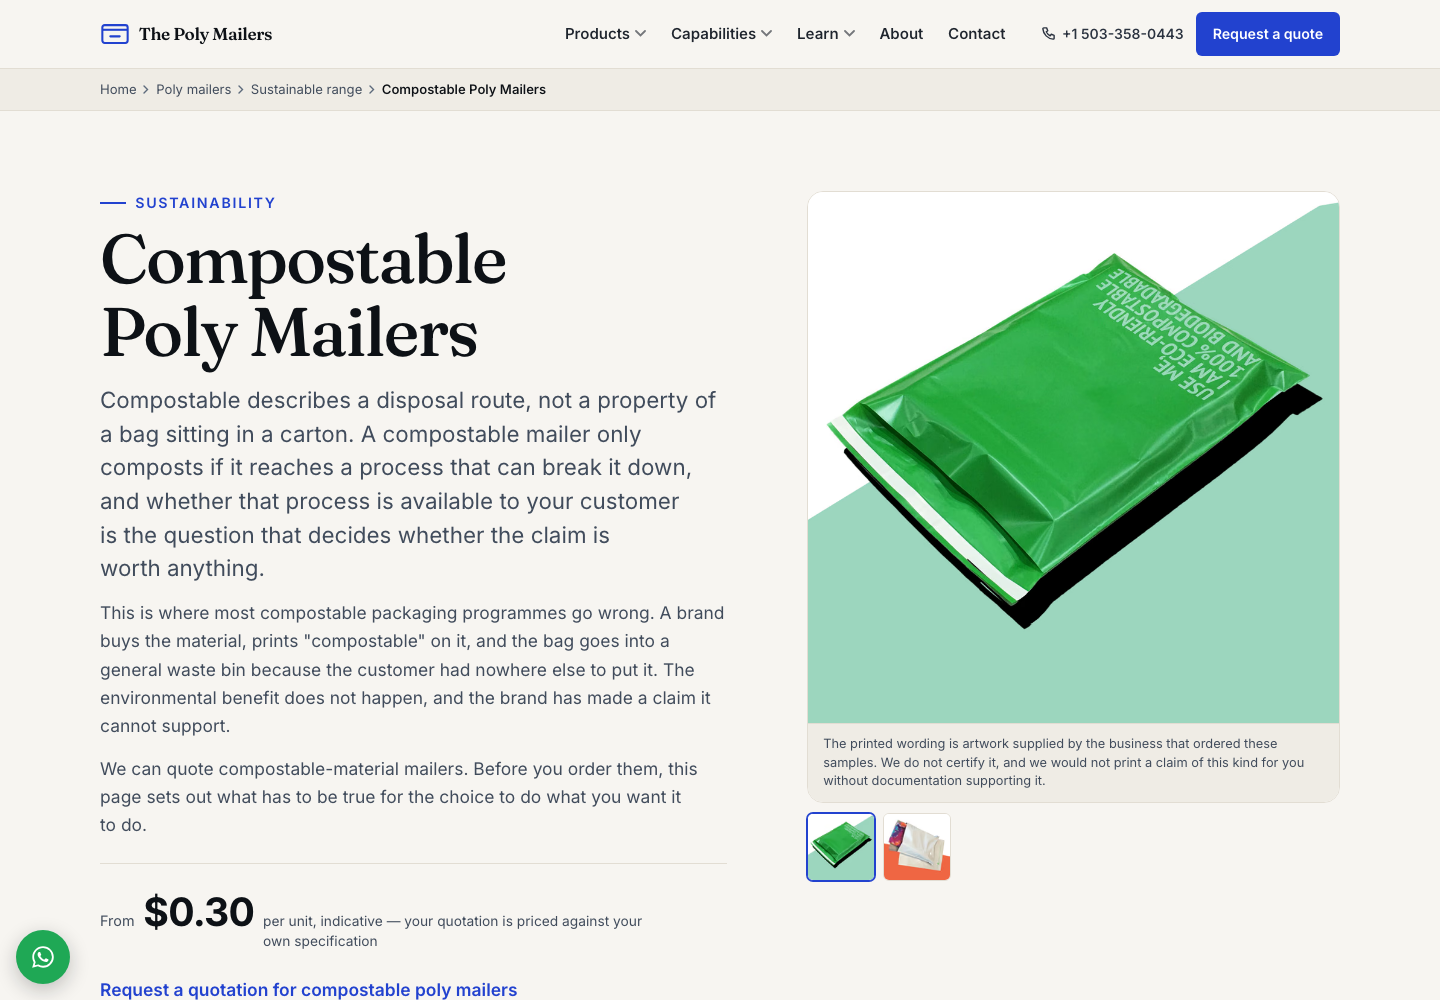
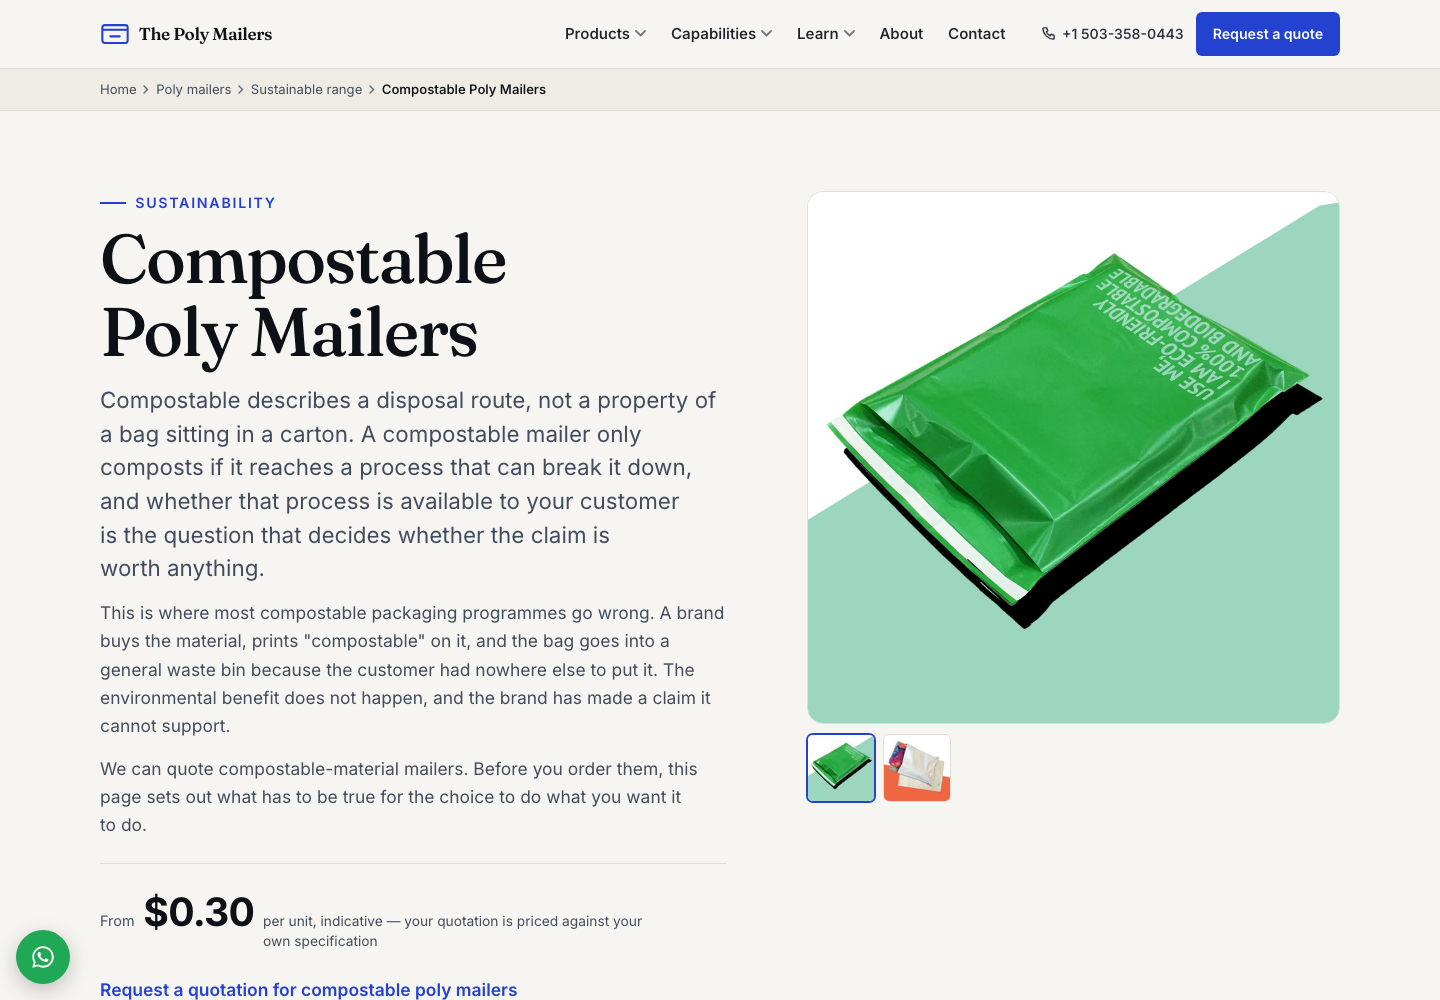
Remove the remaining image disclaimer captions
Client confirmed the printed claims on the supplied photographs are
acceptable, so the four captions that qualified them come off: the recycled
and compostable galleries, and two more found by checking the built HTML
rather than trusting the grep that missed them the first time.

No disclaimer caption remains on any gallery. The informative captions stay
— those describe the product rather than defend it.

Alt text still describes the printed wording as artwork rather than as a
property of the film, so the markup does not assert the claim either.

docs/15-open-items.md records the instruction, the date, and what it leaves
open, rather than quietly dropping the item.

Content audit 0/0 across 150 pages, browser QA 17/17, astro check clean.

Claude-Session: https://claude.ai/code/session_0196zgTZGuoq57sd4CQmziMU

Changed region(s): [[0.5625, 0.713, 0.9062, 0.899]]

diff --git a/site/src/data/products/sustainable.ts b/site/src/data/products/sustainable.ts
@@ -50,14 +50,10 @@ export const sustainableProducts: ProductPage[] = [
       {
         file: 'grey-mailer-printed-with-recycled-content-artwork.jpg',
         alt: 'Grey mailer packed and sealed, printed along one edge with a recycled-content message',
-        caption:
-          'The recycled-content wording shown is printed artwork supplied by the business that ordered these samples. It is not a claim by The Poly Mailers about the film, and we confirm composition on your own quotation.',
       },
       {
         file: 'white-mailer-printed-with-recycled-materials-artwork.jpg',
         alt: 'White mailer with a printed vertical line of text down the right-hand edge',
-        caption:
-          'Another customer’s printed messaging. Wording of this kind is your responsibility to substantiate in the market you sell into.',
       },
       {
         file: 'white-mailer-holding-folded-tie-dye-garment.jpg',
@@ -275,8 +271,6 @@ export const sustainableProducts: ProductPage[] = [
       {
         file: 'green-mailer-printed-with-eco-message-artwork.png',
         alt: 'Green mailer printed with a customer’s environmental message across the front panel',
-        caption:
-          'The printed wording is artwork supplied by the business that ordered these samples. We do not certify it, and we would not print a claim of this kind for you without documentation supporting it.',
       },
       {
         file: 'white-mailer-holding-folded-tie-dye-garment.jpg',
@@ -506,8 +500,6 @@ export const sustainableProducts: ProductPage[] = [
       {
         file: 'green-mailer-printed-with-eco-message-artwork.png',
         alt: 'Green mailer photographed at an angle, carrying a printed environmental slogan from a customer’s own design',
-        caption:
-          'An example of the kind of unqualified wording this page argues against. It is the customer’s artwork on a supplier sample, not a claim we make or endorse.',
       },
       {
         file: 'plain-white-poly-mailer-standing-filled.jpg',

diff --git a/site/docs/02-page-inventory.md b/site/docs/02-page-inventory.md
@@ -5,7 +5,7 @@ Generated from the built output at `dist/client`, not from the source data.
 **148 indexable pages**, plus `/thank-you/` and `/404` which are
 noindex and excluded from the XML sitemap.
 
-Total body copy across indexable pages: **162,712 words**
+Total body copy across indexable pages: **162,596 words**
 (median 1027 words per page, shortest 455,
 longest 2303).
 
@@ -42,7 +42,7 @@ longest 2303).
 | `/artwork-guidelines/` | 1246 | BreadcrumbList, FAQPage, WebPage |
 | `/australia/` | 884 | BreadcrumbList, CollectionPage, FAQPage, ItemList |
 | `/bee-poly-mailers/` | 1243 | BreadcrumbList, FAQPage, ImageObject, Product, WebPage |
-| `/biodegradable-poly-mailers/` | 1514 | BreadcrumbList, FAQPage, ImageObject, Product, WebPage |
+| `/biodegradable-poly-mailers/` | 1486 | BreadcrumbList, FAQPage, ImageObject, Product, WebPage |
 | `/black-poly-mailers/` | 1305 | BreadcrumbList, FAQPage, ImageObject, Product, WebPage |
 | `/blank-poly-mailers/` | 1320 | BreadcrumbList, FAQPage, ImageObject, Product, WebPage |
 | `/blog/` | 455 | BreadcrumbList, CollectionPage, ItemList |
@@ -59,7 +59,7 @@ longest 2303).
 | `/canada/` | 897 | BreadcrumbList, CollectionPage, FAQPage, ItemList |
 | `/christmas-poly-mailers/` | 1475 | BreadcrumbList, FAQPage, ImageObject, Product, WebPage |
 | `/colored-poly-mailers/` | 1367 | BreadcrumbList, FAQPage, ImageObject, Product, WebPage |
-| `/compostable-poly-mailers/` | 1580 | BreadcrumbList, FAQPage, ImageObject, Product, WebPage |
+| `/compostable-poly-mailers/` | 1546 | BreadcrumbList, FAQPage, ImageObject, Product, WebPage |
 | `/contact/` | 536 | BreadcrumbList, ContactPage |
 | `/custom-frosted-poly-bags/` | 1314 | BreadcrumbList, FAQPage, ImageObject, Product, WebPage |
 | `/custom-order-policy/` | 853 | BreadcrumbList, FAQPage, WebPage |
@@ -150,7 +150,7 @@ longest 2303).
 | `/printing-options/` | 1192 | BreadcrumbList, FAQPage, WebPage |
 | `/privacy-policy/` | 664 | BreadcrumbList, WebPage |
 | `/protective-mailers/` | 799 | BreadcrumbList, CollectionPage, FAQPage, ItemList |
-| `/recycled-poly-mailers/` | 1652 | BreadcrumbList, FAQPage, ImageObject, Product, WebPage |
+| `/recycled-poly-mailers/` | 1598 | BreadcrumbList, FAQPage, ImageObject, Product, WebPage |
 | `/request-a-quote/` | 501 | BreadcrumbList, WebPage |
 | `/resources/` | 493 | BreadcrumbList, CollectionPage, ItemList |
 | `/resources/closure-and-self-seal-guide/` | 744 | BreadcrumbList, FAQPage, WebPage |

diff --git a/site/docs/15-open-items.md b/site/docs/15-open-items.md
@@ -51,7 +51,7 @@ Five distinct photographs were excluded and are listed in
 * Mailers printed with a competing packaging company's brand mark.
 * Kraft paper padded mailers filed under a poly self-seal product.
 
-### Retained but qualified
+### Retained, uncaptioned, at the client's instruction
 
 Three photographs carry sustainability wording printed on the bag by whoever
 produced the original sample: a green mailer reading "100% eco-friendly
@@ -59,14 +59,23 @@ compostable and biodegradable", a grey mailer reading "made of up to 50%
 recycled polyethylene", and a white mailer reading "made from 100% recycled
 materials".
 
-They are used with a visible caption stating that printed messaging is the
-artwork of the business that ordered those samples, that The Poly Mailers does
-not certify those claims, and that composition is confirmed at quotation. Alt
-text describes the wording as printed artwork, never as a property of the
-material.
+They shipped with visible captions attributing the wording to the customer who
+ordered those samples. On 2026-08-16 the client reviewed that and instructed
+that the printed claims are acceptable and the captions should come off. They
+have been removed, along with the placeholder-artwork captions elsewhere.
 
-**Recommendation:** replace all three with unbranded photography. A caption
-manages the risk; it does not remove it.
+Alt text still describes the wording as printed artwork rather than as a
+property of the material, so the markup does not assert the claim either.
+
+**What that leaves open.** Environmental claims are enforced in all four markets
+this site sells into — the FTC Green Guides in the US, the CMA in the UK, the
+ACCC in Australia and the Competition Bureau in Canada — and a photograph on a
+product page is published material whoever wrote the words on the bag. The
+company holds no document supporting any of the three claims, because none was
+supplied.
+
+Replacing the three photographs removes the exposure entirely and costs nothing
+but a photoshoot. That remains the recommendation.
 
 ### Third-party brand marks
 

diff --git a/site/docs/11-build-and-performance.md b/site/docs/11-build-and-performance.md
@@ -5,7 +5,7 @@
 | | |
 | --- | ---: |
 | HTML pages | 150 |
-| Total HTML | 10533 KB |
+| Total HTML | 10531 KB |
 | Average page HTML | 70.2 KB |
 | Largest page HTML | 115.4 KB |
 | JavaScript bundles | 3 |
